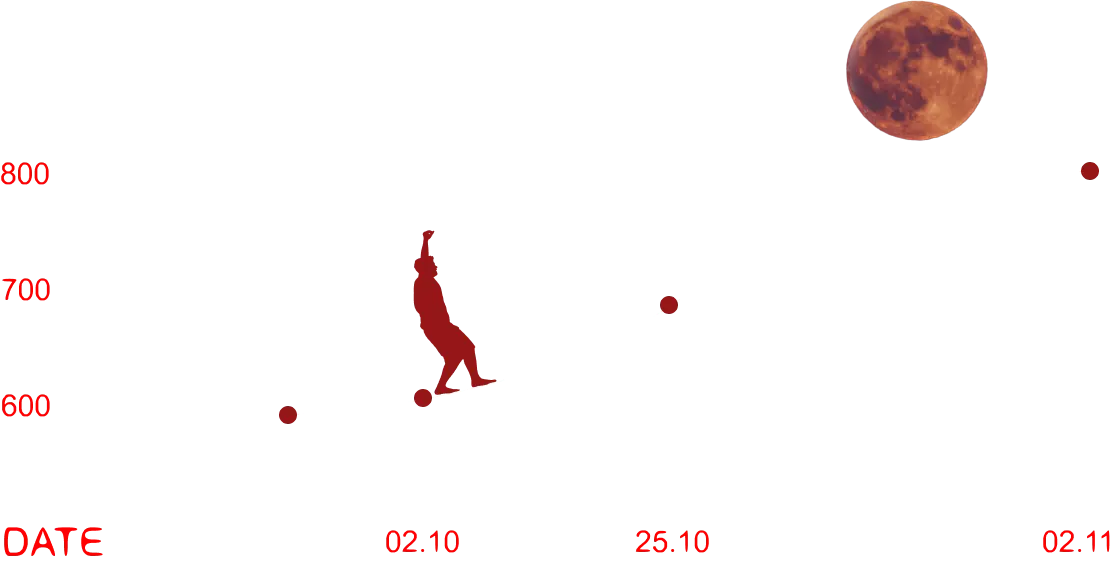
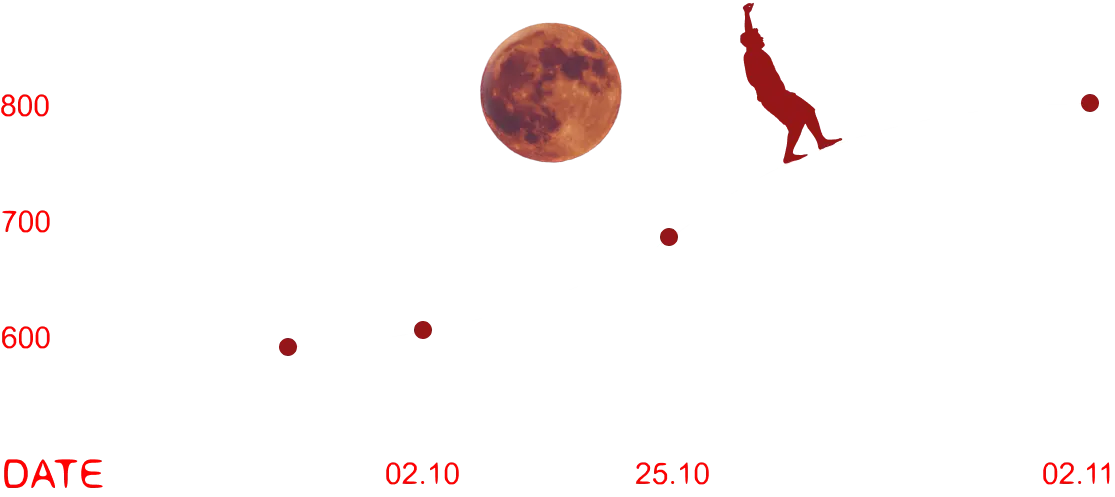
price

diff --git a/components/Pages/Events/CircusCarnival/CircusCarnival.module.css b/components/Pages/Events/CircusCarnival/CircusCarnival.module.css
@@ -576,7 +576,7 @@
 .chart {
     z-index: 0;
     position: relative;
-    top: -100px;
+    top: -50px;
     z-index: 1;
 }
 .shadowImg {
